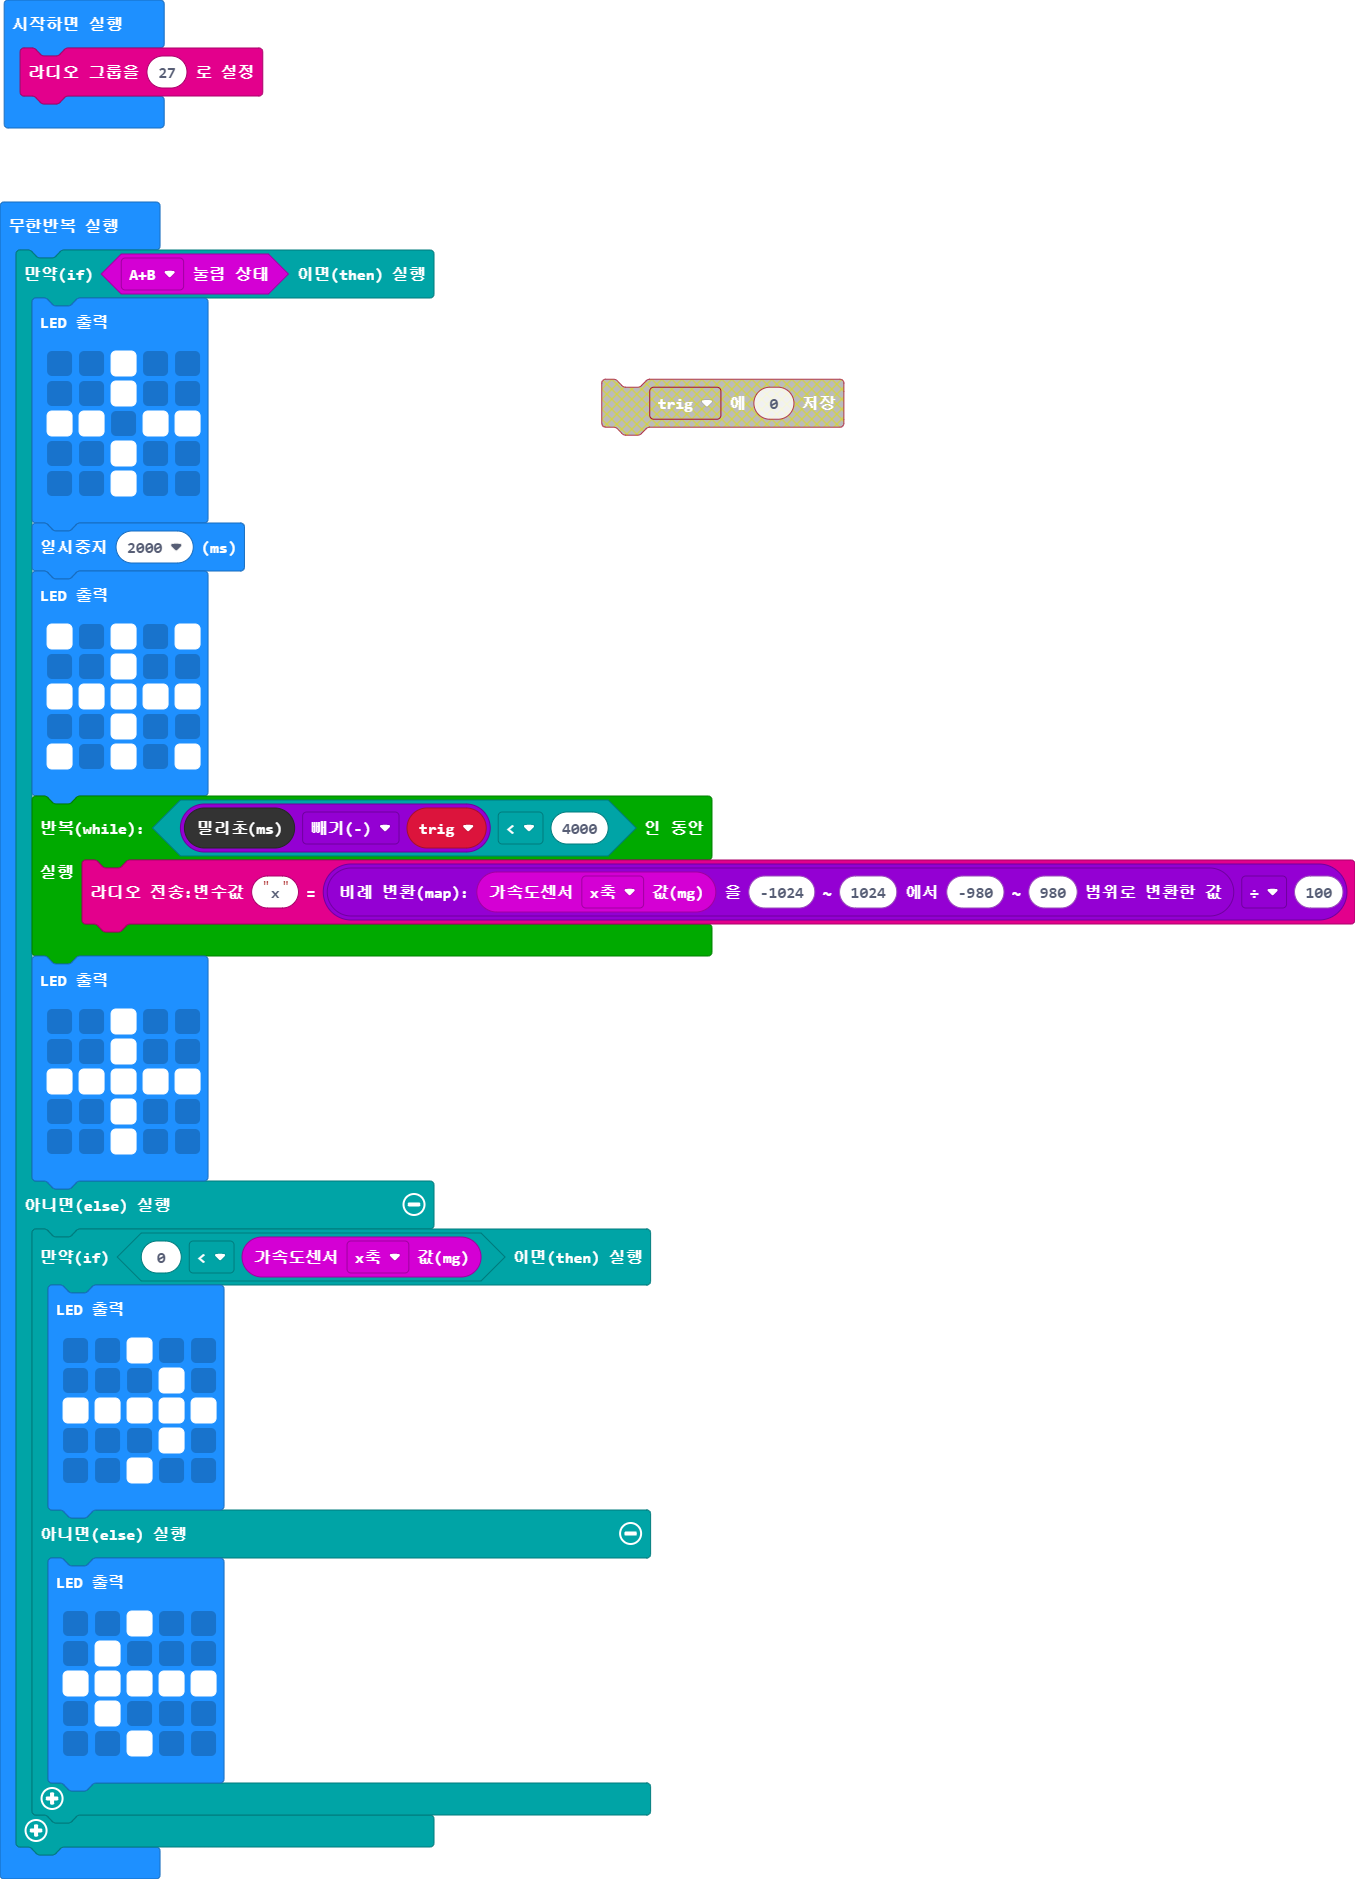
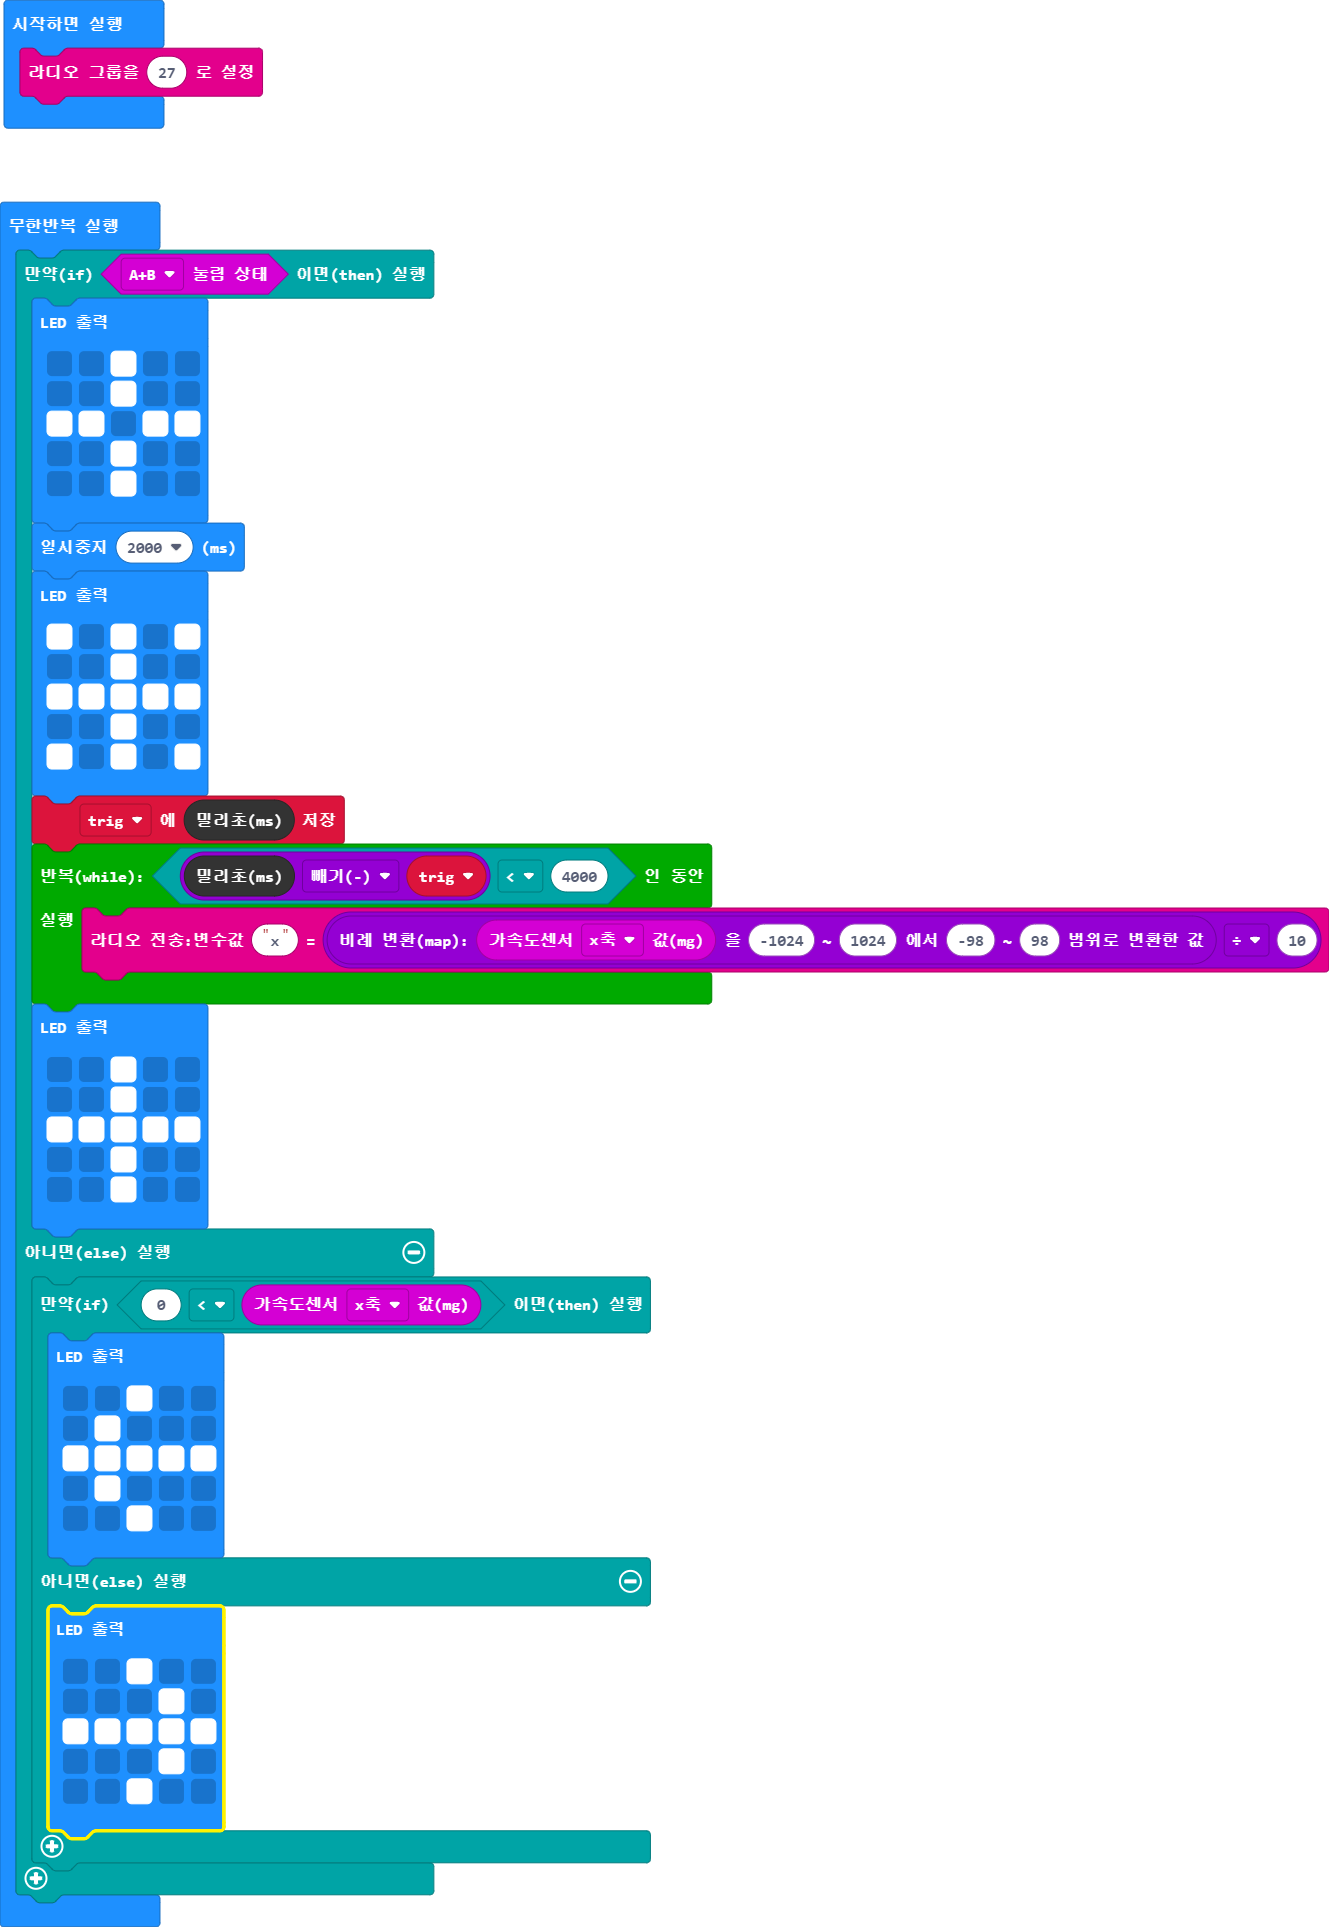
main.blocks, main.ts 업데이트하기

diff --git a/main.ts b/main.ts
@@ -1,7 +1,7 @@
+let trig = 0
 radio.setGroup(27)
 basic.forever(function () {
     if (input.buttonIsPressed(Button.AB)) {
-        let trig = 0
         basic.showLeds(`
             . . # . .
             . . # . .
@@ -17,8 +17,9 @@ basic.forever(function () {
             . . # . .
             # . # . #
             `)
+        trig = control.millis()
         while (control.millis() - trig < 4000) {
-            radio.sendValue("x", Math.map(input.acceleration(Dimension.X), -1024, 1024, -980, 980) / 100)
+            radio.sendValue("x", Math.map(input.acceleration(Dimension.X), -1024, 1024, -98, 98) / 10)
         }
         basic.showLeds(`
             . . # . .
@@ -31,17 +32,17 @@ basic.forever(function () {
         if (0 < input.acceleration(Dimension.X)) {
             basic.showLeds(`
                 . . # . .
-                . . . # .
+                . # . . .
                 # # # # #
-                . . . # .
+                . # . . .
                 . . # . .
                 `)
         } else {
             basic.showLeds(`
                 . . # . .
-                . # . . .
+                . . . # .
                 # # # # #
-                . # . . .
+                . . . # .
                 . . # . .
                 `)
         }
